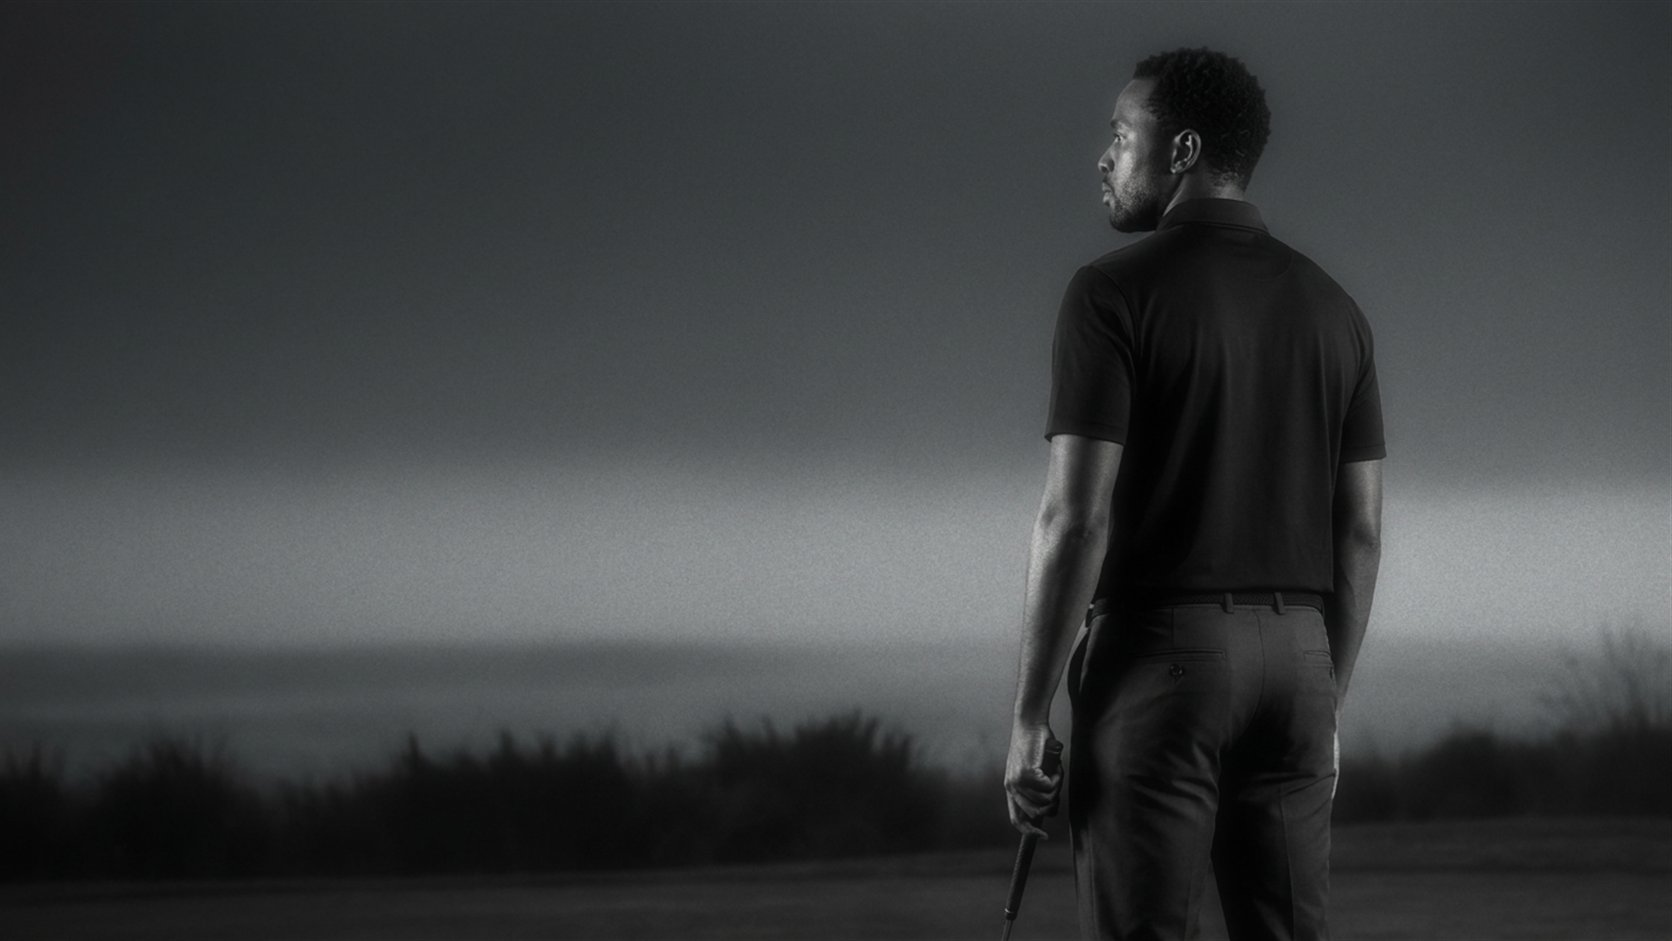
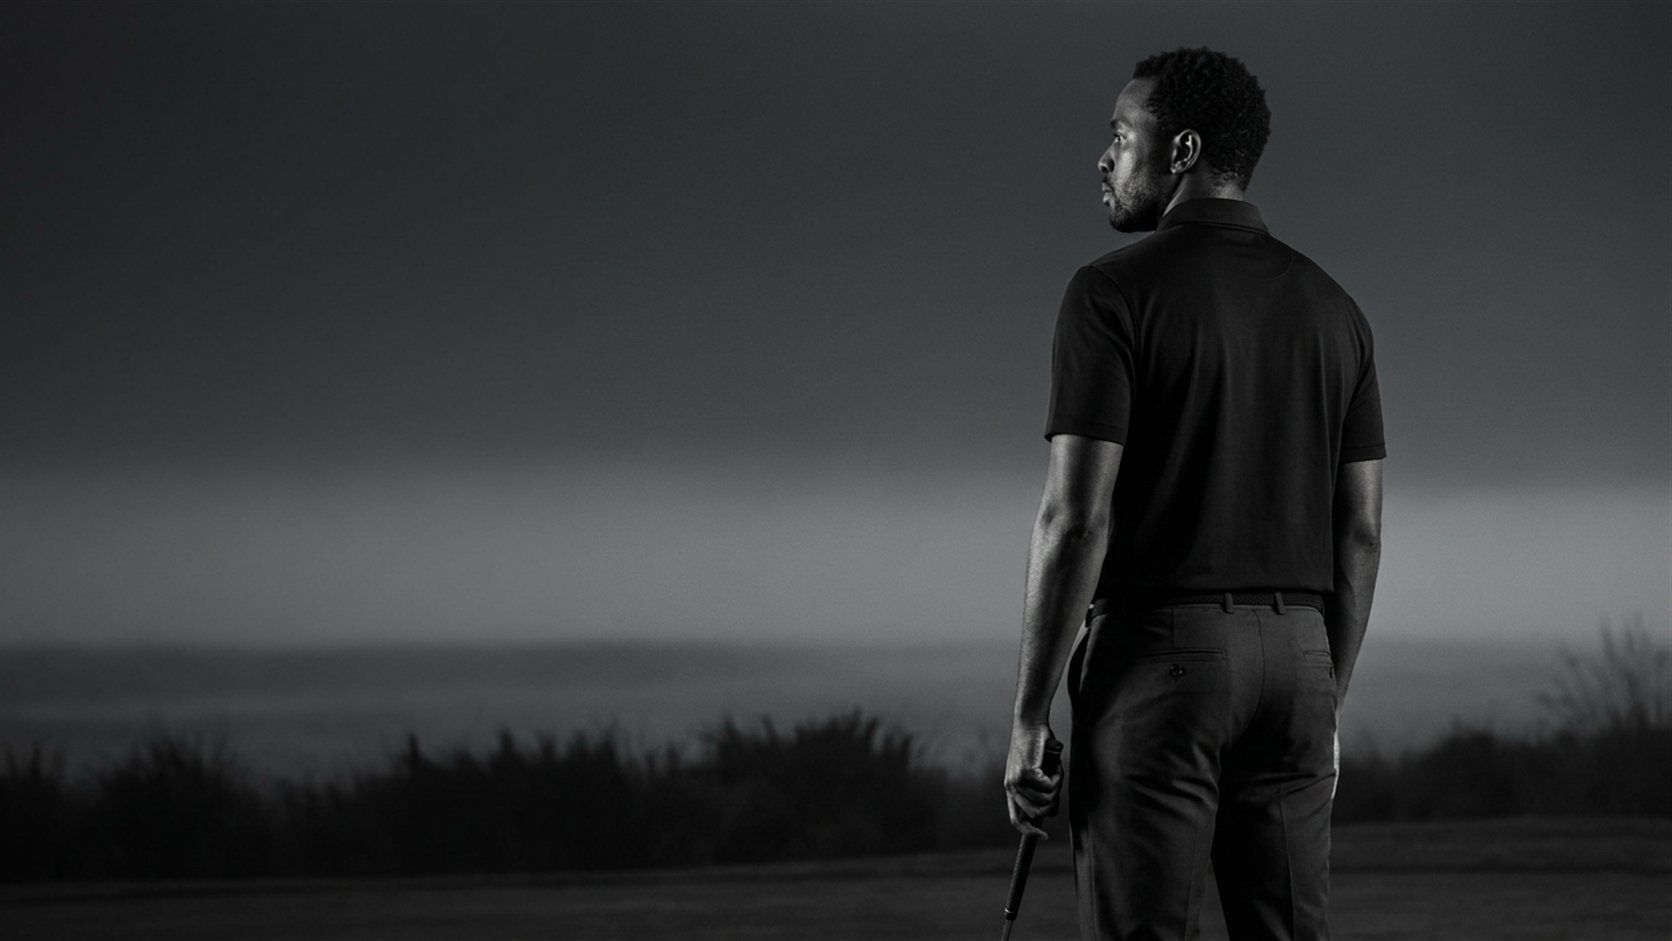
New Yoga photo (meditation) and regraded Golf hero
Yoga: hero-yoga.jpg becomes the gym meditation shot. She sits low and
small in this frame - head ~30% down, seated base ~91% - so the 58vh
band cannot hold all of her and has to choose what to cut. Desktop
vertical anchor is 40%: drops the empty ceiling, keeps her head clear
of the 64px nav, and still shows the crossed legs that make the pose
read. Checked at 600/800/1000/1200px viewport heights.

The anchor must stay a PERCENTAGE. A fixed px/cm offset frames her
more consistently across window heights but gaps here: on a tall
window the vertical slack shrinks below the offset and bare background
shows under the photo. Percentages interpolate within the slack.

Mobile x moves 30% -> 50% for the new subject position; her whole body
sits 12-221px in a 375px frame with 154px clear for the copy. The
mirrored layout (copy right, scrim flipped) is unchanged.

Golf: hero-golf.jpg regraded - a genuinely different render, 11.5
mean-abs-diff from the previous one, not the duplicate that the
earlier same-named download turned out to be.

Changed region(s): [[0.1866, 0.4931, 0.6531, 0.7088], [0.8086, 0.4931, 1.0, 0.7088], [0.6531, 0.1541, 0.6842, 0.1849]]

diff --git a/collection-yoga.html b/collection-yoga.html
@@ -49,20 +49,27 @@
            block below. This page's <style> loads after mobile-fix.css, so the
            unconditional .chero-scrim rule above would otherwise beat the
            shared top-to-bottom mobile gradient and leave copy unreadable.
-       Vertical anchor is `top` at both breakpoints - her head sits ~5% down
-       the frame, so any upward shift cuts into her hair. Horizontal: she is
-       centred ~30% across the photo. Desktop `cover` scales by width, so x
-       does nothing at normal window shapes - 30% only matters on very tall
-       narrow windows, where it keeps her in view. Mobile `cover` scales by
-       HEIGHT, so x is the only control that does anything: 30% is the highest
-       value that still holds her whole body - she spans ~18-46% of the photo,
-       and at 42% her supporting arm was cut off by the left frame edge. */
+       Vertical (desktop): 40%, and it must stay a PERCENTAGE. She sits low
+       and small in this frame - head ~30% down, seated base ~91% - so the
+       58vh band cannot hold all of her and has to choose what to cut. 40%
+       drops the empty ceiling, keeps her head clear of the 64px nav, and
+       still shows the crossed legs that make the pose read. A fixed px/cm
+       offset frames her more consistently but is unsafe here: on a very tall
+       window the slack shrinks below the offset and bare background shows
+       under the photo. Percentages interpolate within the slack and can
+       never gap. Checked at 600/800/1000px viewport heights.
+       Horizontal: she is centred ~41% across the photo. Desktop `cover`
+       scales by width, so x does nothing at normal window shapes - 40% only
+       matters on very tall narrow windows. Mobile `cover` scales by HEIGHT,
+       so x is the only control that does anything (and y does nothing, there
+       being no vertical slack): 50% holds her whole body - she spans ~29-54%
+       of the photo - and leaves the right side clear for the copy. */
     .chero-scrim{background:linear-gradient(to left,rgba(10,10,10,.92) 0%,rgba(10,10,10,.72) 30%,rgba(10,10,10,.22) 58%,rgba(10,10,10,0) 78%)}
     .chero-copy{margin-left:auto;text-align:right}
     .chero-copy .d3{justify-content:flex-end}
-    @media(min-width:768px){.chero-img{background-position:30% top}}
+    @media(min-width:768px){.chero-img{background-position:40% 40%}}
     @media(max-width:767px){
-      .chero-img{background-position:30% top}
+      .chero-img{background-position:50% top}
       .chero-scrim{background:linear-gradient(to bottom,rgba(10,10,10,.82) 0%,rgba(10,10,10,.72) 55%,rgba(10,10,10,.88) 100%)}
     }
   </style>
